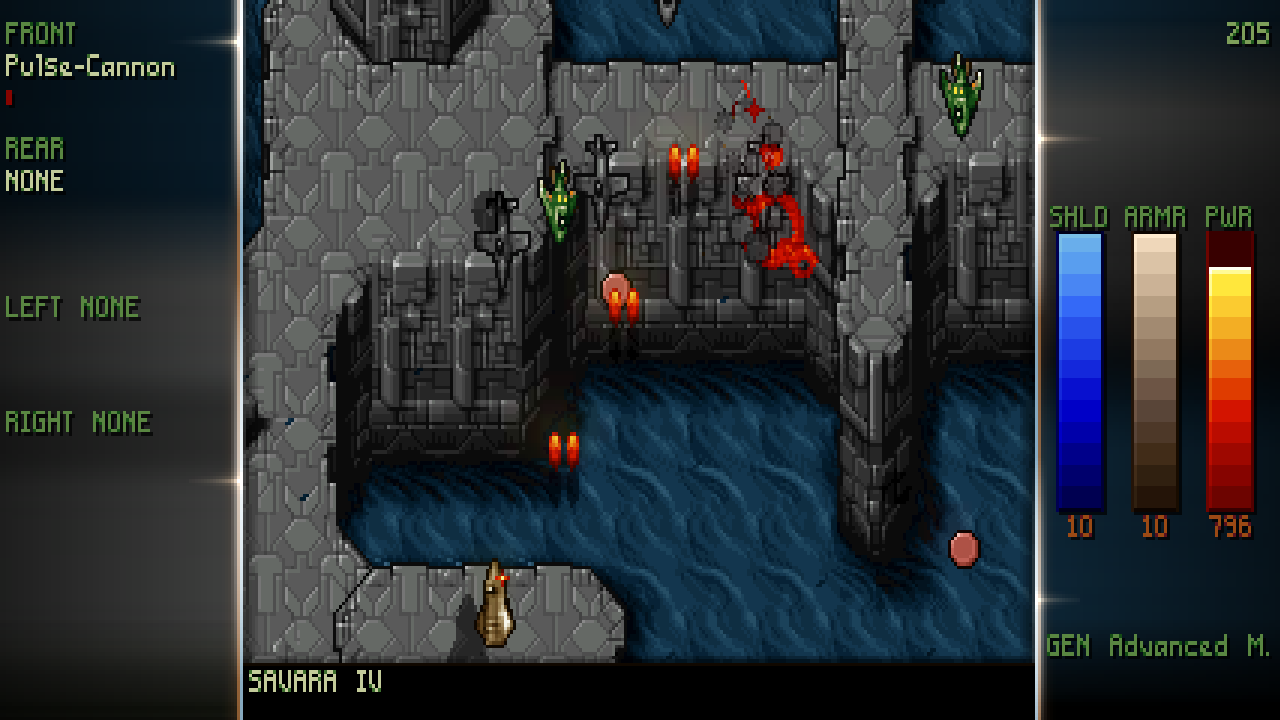
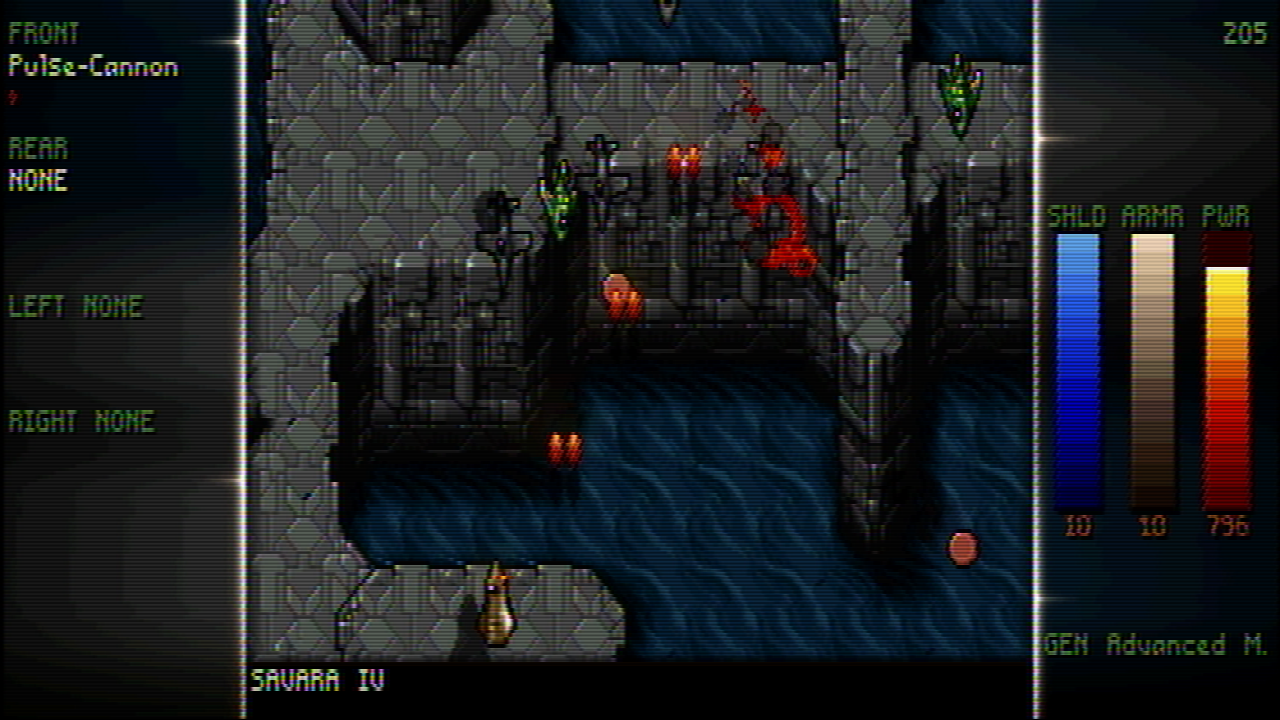
Update SAVARA IV README capture with CRT Both

diff --git a/docs/screenshots/render.py b/docs/screenshots/render.py
@@ -3,9 +3,10 @@
 
 Usage:  python3 docs/screenshots/render.py BMP_DIR
 
-BMP_DIR must contain hero.bmp, arcade.bmp, deck.bmp, menu.bmp, classic.bmp and modern.bmp as
-produced by docs/screenshots/capture.sh.  Writes hero.png, menu.png and
+BMP_DIR must contain arcade.bmp, deck.bmp, menu.bmp, classic.bmp and modern.bmp as
+produced by docs/screenshots/capture.sh. Writes arcade.png, menu.png,
 classic-vs-modern.png and savara-deck-16x10.png next to this script.
+The game writes hero.png directly from its presented CRT output.
 
 Nearest-neighbour only, with the original 1.2 pixel aspect (each source pixel
 is drawn 1.2x taller than wide), so the screenshots look like the real screen.
@@ -88,14 +89,13 @@ def write_png(path, width, height, rows):
 
 def main():
     bmp_dir = sys.argv[1] if len(sys.argv) > 1 else HERE
-    hero = read_bmp(os.path.join(bmp_dir, "hero.bmp"))
     arcade = read_bmp(os.path.join(bmp_dir, "arcade.bmp"))
     menu = read_bmp(os.path.join(bmp_dir, "menu.bmp"))
     classic = read_bmp(os.path.join(bmp_dir, "classic.bmp"))
     modern = read_bmp(os.path.join(bmp_dir, "modern.bmp"))
 
     # Full-window shots: the Modern canvas is 427x200 logical pixels.
-    for name, (w, h, rows) in (("hero.png", hero), ("arcade.png", arcade), ("menu.png", menu)):
+    for name, (w, h, rows) in (("arcade.png", arcade), ("menu.png", menu)):
         out, oh = scale(rows, w, h, 1280, 720)
         write_png(os.path.join(HERE, name), 1280, oh, out)
 

diff --git a/docs/screenshots/README.md b/docs/screenshots/README.md
@@ -7,7 +7,7 @@ art generated for this port; it loads no Tyrian 2000 data.
 | File | Capture |
 | --- | --- |
 | `launcher.png` | Launcher, 1280×720, Tyrian 2.1 selected, Tyrian 2000 not installed |
-| `hero.png` | SAVARA IV, episode script section 4:16, frame 500, Modern 16:9 |
+| `hero.png` | SAVARA IV, episode script section 4:16, frame 500, Modern 16:9, CRT Both (scanlines + NTSC), presented at 1280×720 |
 | `arcade.png` | TYRIAN, episode 1 via the standard Arcade menu, frame 500, Modern 16:9 |
 | `savara-deck-16x10.png` | SAVARA IV, frame 500, Modern 16:10, 1280×800 |
 | `steam-deck.png` | Steam Deck mockup with the 16:10 capture inside the active screen; black bezels preserved |
@@ -21,8 +21,9 @@ From the repository root, after `make` and `./get_data.sh`:
 ```
 
 The script uses the game's headless snapshot support, a fixed seed and constant
-play for reproducible captures. `render.py` scales gameplay with nearest-neighbour
-and the original 1.2 pixel aspect. The launcher exports its native PNG directly.
+play for reproducible captures. The hero uses the game's presented CRT output;
+`render.py` scales the other gameplay images with nearest-neighbour and the
+original 1.2 pixel aspect. The launcher exports its native PNG directly.
 
 The Steam Deck mockup uses the [Valve frame supplied for this task](https://clan.fastly.steamstatic.com/images//39049601/e54b85b6e75bc7ec589372474ef1705b3471bb66.png)
 and `savara-deck-16x10.png`. The final image is an exact composition, not an AI

diff --git a/README.md b/README.md
@@ -24,8 +24,8 @@ install **Tyrian 2000** separately through the launcher.
 </p>
 
 <p align="center">
-  <img src="docs/screenshots/hero.png" alt="Tyrian 2.1 SAVARA IV in 16:9 with the Modern bevelled glass HUD, lighting and effects" width="100%">
-  <br><sub>SAVARA IV · Modern HUD · 16:9</sub>
+  <img src="docs/screenshots/hero.png" alt="Tyrian 2.1 SAVARA IV in 16:9 with the Modern HUD and both CRT filters: scanlines and NTSC" width="100%">
+  <br><sub>SAVARA IV · Modern HUD · CRT Both · 16:9</sub>
 </p>
 
 <p align="center">
